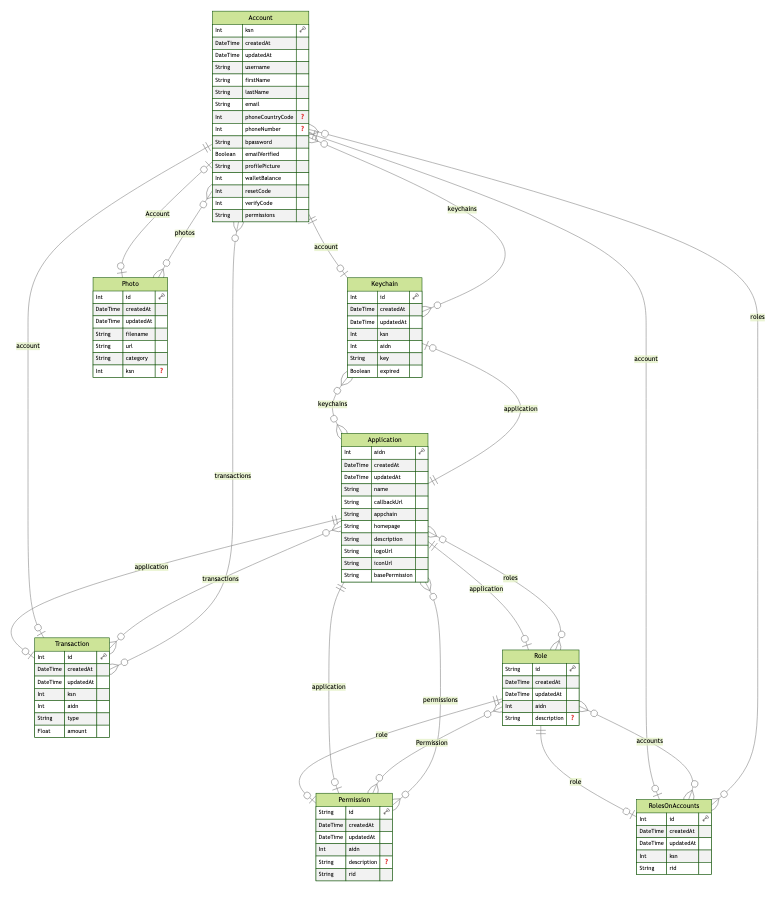
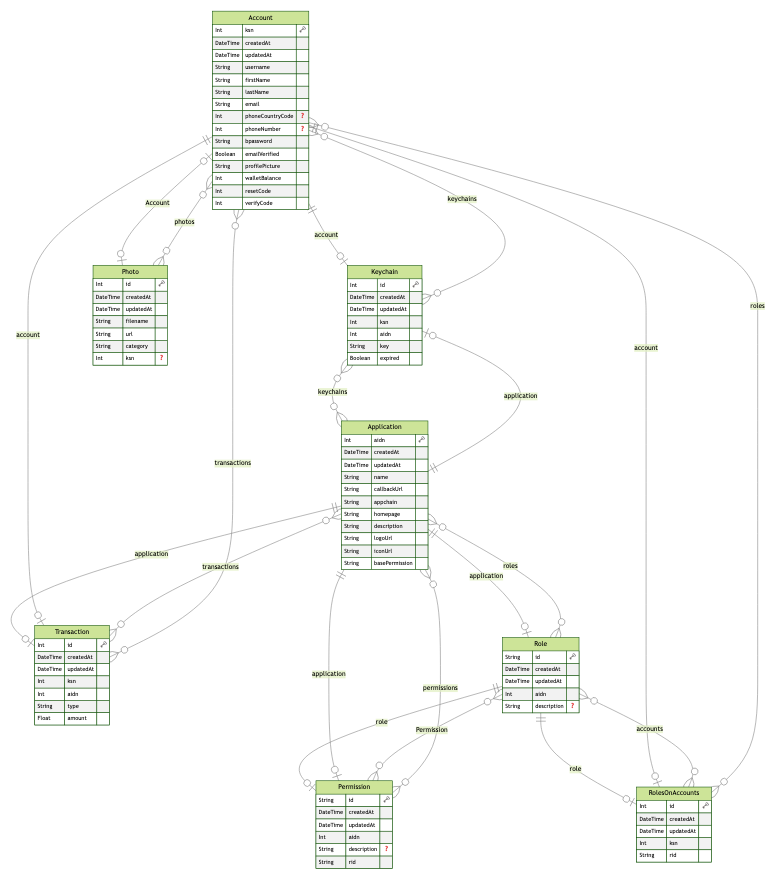
ref: removed "permissions" from accounts

diff --git a/src/accounts/accounts.service.ts b/src/accounts/accounts.service.ts
@@ -18,7 +18,6 @@ import {
   VerifyCodeDto,
   ResetPasswordDto,
   SendCodeDto,
-  UpdatePermissionsDto,
   UpdateAvatarDto,
 } from './accounts.dto';
 import { IResponse } from '../../types/IResponse';
@@ -148,7 +147,6 @@ export class AccountsService {
       );
       throw new InternalServerErrorException('verifyCode type not valid');
     }
-
   }
 
   // creates a new user account and keychain
@@ -165,32 +163,6 @@ export class AccountsService {
     const photoUrl = `https://cdn.kreativeusa.com/kreative_id/letter_avatars/${firstLetter}.png`;
 
     const basePermission = await this.applications.getBasePermission(dto.aidn);
-
-    // verify email using Abstract API
-    // will use for other purposes later
-    logger.info(`Abstract API email verification initiated for ${dto.email}`);
-    try {
-      const response = await axios.get(
-        `https://emailvalidation.abstractapi.com/v1/?api_key=${process.env.ABSTRACT_API_KEY}&email=${dto.email}`,
-      );
-      logger.info({
-        message: `Abstract API response received for ${dto.email}`,
-        response,
-      });
-      const suggestion = response.data.autocorrect;
-      if (suggestion === '') {
-        logger.info(`No autocorrect email suggestion for ${dto.email}`);
-      } else {
-        logger.info(
-          `Email autocorrect suggestion for ${dto.email}: ${suggestion}`,
-        );
-      }
-    } catch (error) {
-      logger.error({
-        message: `Abstract API error for ${dto.email}`,
-        error,
-      });
-    }
 
     let firstName: string;
     let lastName: string;
@@ -551,78 +523,6 @@ export class AccountsService {
     };
 
     logger.info({ message: 'updateAvatar succeeded', payload });
-    return payload;
-  }
-
-  // updates specifically permissions for an account
-  // because permissions are critical to security, we have to manage this method securely as well,
-  // therefore to execute updatePermissions a valid key has to be sent, and from that key we get the ksn
-  async updatePermissions(dto: UpdatePermissionsDto): Promise<IResponse> {
-    let accountChange: any;
-
-    // verifies that the keychain given is valid
-    // this method also sends back the current account details, this means we don't need to conduct a separate
-    // findUnique method to get account details
-    logger.info({
-      message: 'verifyKeychain in updatePermissions initiated',
-      body: dto,
-    });
-    const keychainRes: any = await this.keychains.verifyKeychain({
-      aidn: dto.aidn,
-      key: dto.key,
-      appchain: dto.appchain,
-    });
-
-    const email = keychainRes.data.account.email;
-    const permissions: Array<string> = keychainRes.data.account.permissions;
-    logger.info(`current permissions for ${email} include: ${permissions}`);
-
-    try {
-      // this functionality shouldn't break or throw an error
-      logger.info(`for loop in updatePermissions initiating. for ${email}`);
-      for (const i in Object.keys(dto.newPermissions)) {
-        const permission: string = dto.newPermissions[i];
-        if (!permissions.includes(permission)) {
-          permissions.push(permission);
-        }
-      }
-    } catch (error) {
-      // just in case the for loop crashed, we handle it through an internal server error
-      logger.error({ message: 'for loop in updatePermissions failed', error });
-      throw new InternalServerErrorException("For loop won't process");
-    }
-
-    try {
-      // here we update the account's permissions array
-      logger.info('prisma.account.update in updatePermissions initiating');
-      accountChange = await this.prisma.account.update({
-        where: {
-          ksn: keychainRes.data.account.ksn,
-        },
-        data: {
-          permissions,
-        },
-      });
-    } catch (error) {
-      // handles any sort of prisma errors
-      logger.error({
-        message: 'prisma.account.update in updatePermissions failed',
-        error,
-      });
-      handlePrismaErrors(error);
-    }
-
-    // all parts passed, successful update functionality
-    const payload: IResponse = {
-      statusCode: 200,
-      message: 'Account permissions updated',
-      data: { accountChange },
-    };
-
-    logger.info({
-      message: `updatePermissions for ${email} succeeded`,
-      payload,
-    });
     return payload;
   }
 

diff --git a/src/accounts/accounts.controller.ts b/src/accounts/accounts.controller.ts
@@ -16,7 +16,6 @@ import {
   VerifyCodeDto,
   ResetPasswordDto,
   SendCodeDto,
-  UpdatePermissionsDto,
   UpdateAvatarDto,
 } from './accounts.dto';
 import logger from '../../utils/logger';
@@ -61,16 +60,6 @@ export class AccountsController {
       body: dto,
     });
     return this.accountsService.updateAvatar(req, dto);
-  }
-
-  @Post('update/permissions')
-  @UseGuards(new UserAuthGuard(['KREATIVE_ID_USER']))
-  updatePermissions(@Body() dto: UpdatePermissionsDto): Promise<IResponse> {
-    logger.info({
-      message: 'POST /accounts/update/permissions initiated',
-      body: dto,
-    });
-    return this.accountsService.updatePermissions(dto);
   }
 
   @Get('')

diff --git a/src/accounts/accounts.dto.ts b/src/accounts/accounts.dto.ts
@@ -86,25 +86,6 @@ export class UpdateWalletBalanceDto {
   type: string;
 }
 
-export class UpdatePermissionsDto {
-  @IsNotEmpty()
-  @IsNumber()
-  @Min(6)
-  aidn: number;
-
-  @IsNotEmpty()
-  @IsString()
-  key: string;
-
-  @IsNotEmpty()
-  @IsString()
-  appchain: string;
-
-  @IsNotEmpty()
-  @IsArray()
-  newPermissions: Array<string>;
-}
-
 export class UpdateAvatarDto {
   @IsNotEmpty()
   @IsUrl()

diff --git a/src/keychains/keychains.service.ts b/src/keychains/keychains.service.ts
@@ -217,8 +217,6 @@ export class KeychainsService {
       throw new NotFoundException('Account not found');
     }
 
-    console.log(account);
-
     // removes sensitive information
     logger.info('sensitive info for account being deleted');
     delete account.bpassword;
